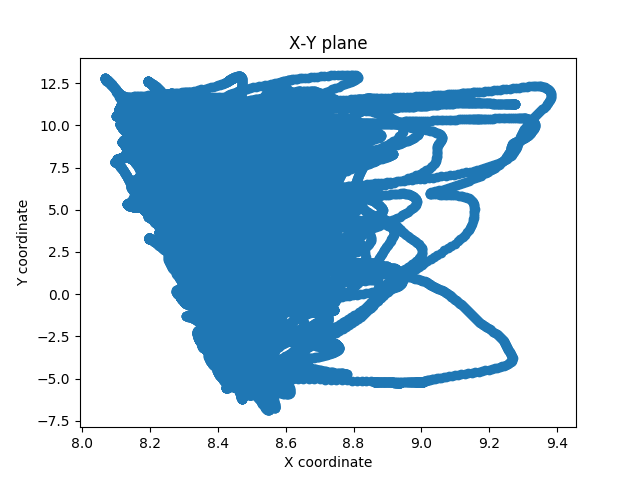
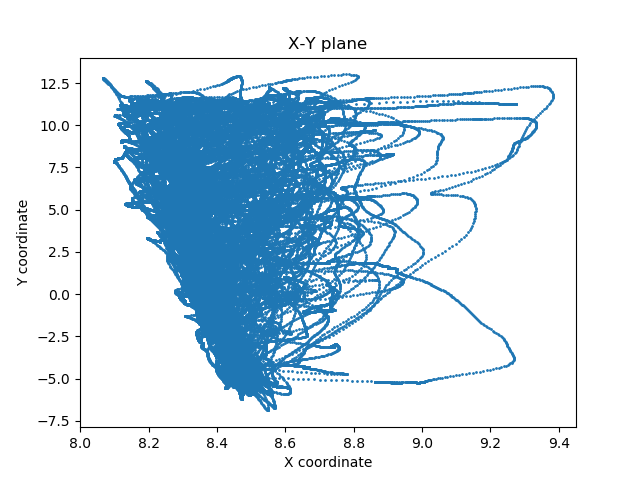
plot trajectory with numpy array

diff --git a/plot_x_y_trajectory.py b/plot_x_y_trajectory.py
@@ -7,8 +7,15 @@ import matplotlib.pyplot as plot
 
 with h5py.File('indy_20160407_02.mat', 'r') as mat_file:
 
+    '''
     finger_pos = mat_file['finger_pos']
     time_stamp=mat_file['t']
+
+    print('finger_pos shape: ',end='')
+    print(finger_pos.shape) # (3, 204446)
+    print('time_stamp shape: ',end='')
+    print(time_stamp.shape) # (1, 204446)
+    '''
 
     numpy_finger_pos=mat_file.get('finger_pos')
     numpy_finger_pos=np.array(numpy_finger_pos)
@@ -20,62 +27,33 @@ with h5py.File('indy_20160407_02.mat', 'r') as mat_file:
     print('numpy_time_stamp: ',end='')
     print(numpy_time_stamp.shape)  #  (1, 204446)
 
-    print('finger_pos shape: ',end='')
-    print(finger_pos.shape) # (3, 204446)
-    print('time_stamp shape: ',end='')
-    print(time_stamp.shape) # (1, 204446)
+    finger_x_coor=numpy_finger_pos[0][:]
+    finger_y_coor=numpy_finger_pos[1][:]
+    finger_z_coor=numpy_finger_pos[2][:]
 
-    finger_x_coor=[]
-    finger_y_coor=[]
-    finger_z_coor=[]
-
-    finger_x_velocity=[]
-    finger_y_velocity=[]
-    finger_z_velocity=[]
-
-    time_coor=[]
-
-    #duration=1000
-    duration=finger_pos.shape[1]
-
-    for i in range(duration):
-        print('progress: ' + str( (i/duration)*100 )+'%' )
-
-        finger_x_coor.append(  finger_pos[0][i]  )
-        finger_y_coor.append(  finger_pos[1][i]  )
-        finger_z_coor.append(  finger_pos[2][i]  )
-        time_coor.append( time_stamp[0][i] )
-
-        '''
-        if i<= duration-1:
-            velocity=( finger_pos[0][i+1] - finger_pos[0][i] ) / ( time_stamp[0][i+1]-time_stamp[0][i] )
-            finger_x_velocity.append(velocity)
-
-            velocity=( finger_pos[1][i+1] - finger_pos[1][i] ) / ( time_stamp[0][i+1]-time_stamp[0][i] )
-            finger_y_velocity.append(velocity)
-
-            velocity=( finger_pos[2][i+1] - finger_pos[2][i] ) / ( time_stamp[0][i+1]-time_stamp[0][i] )
-            finger_z_velocity.append(velocity)
-        '''
-
-print('length of finger_x_coor: ',end='')
-print(len(finger_x_coor))
-
-plot.scatter(finger_x_coor, finger_y_coor)
+plot.scatter(finger_x_coor, finger_y_coor, s=1)
 plot.title('X-Y plane')
 plot.xlabel('X coordinate')
 plot.ylabel('Y coordinate')
 #plot.show()
-plot.savefig('X-Y_plane_trajectory.png' )
+plot.savefig('X-Y_plane_trajectory.png')
 
 plot.cla()
 plot.clf()
 
-'''
-plot.scatter(finger_x_velocity, finger_y_velocity)
-plot.title('X-Y velocity')
-plot.xlabel('X velocity')
-plot.ylabel('Y velocity')
+plot.scatter(finger_x_coor, finger_z_coor, s=1)
+plot.title('X-Z plane')
+plot.xlabel('X coordinate')
+plot.ylabel('Z coordinate')
 #plot.show()
-plot.savefig('X-Y_plane_velocity.png' )
-'''
+plot.savefig('X-Z_plane_trajectory.png')
+
+plot.cla()
+plot.clf()
+
+plot.scatter(finger_y_coor, finger_z_coor, s=1)
+plot.title('Y-Z plane')
+plot.xlabel('Y coordinate')
+plot.ylabel('Z coordinate')
+#plot.show()
+plot.savefig('Y-Z_plane_trajectory.png')

diff --git a/README.md b/README.md
@@ -4,6 +4,6 @@
 ![](/Spike_Train_Plots/Spike_Train_Channel_14.png)
 #### Spike trains from channel 14 for instance, has data from unit 1 to unit 3, ploted in different color.
 ---
-![](X-Y_plane_trajectory.png)  
+![](X-Y_plane_trajectory.png)  ![](X-Z_plane_trajectory.png)  ![](Y_Z_plane_trajectory.png)  
 #### The trajectory of fingertips with all 204,446 data points.
 ---
